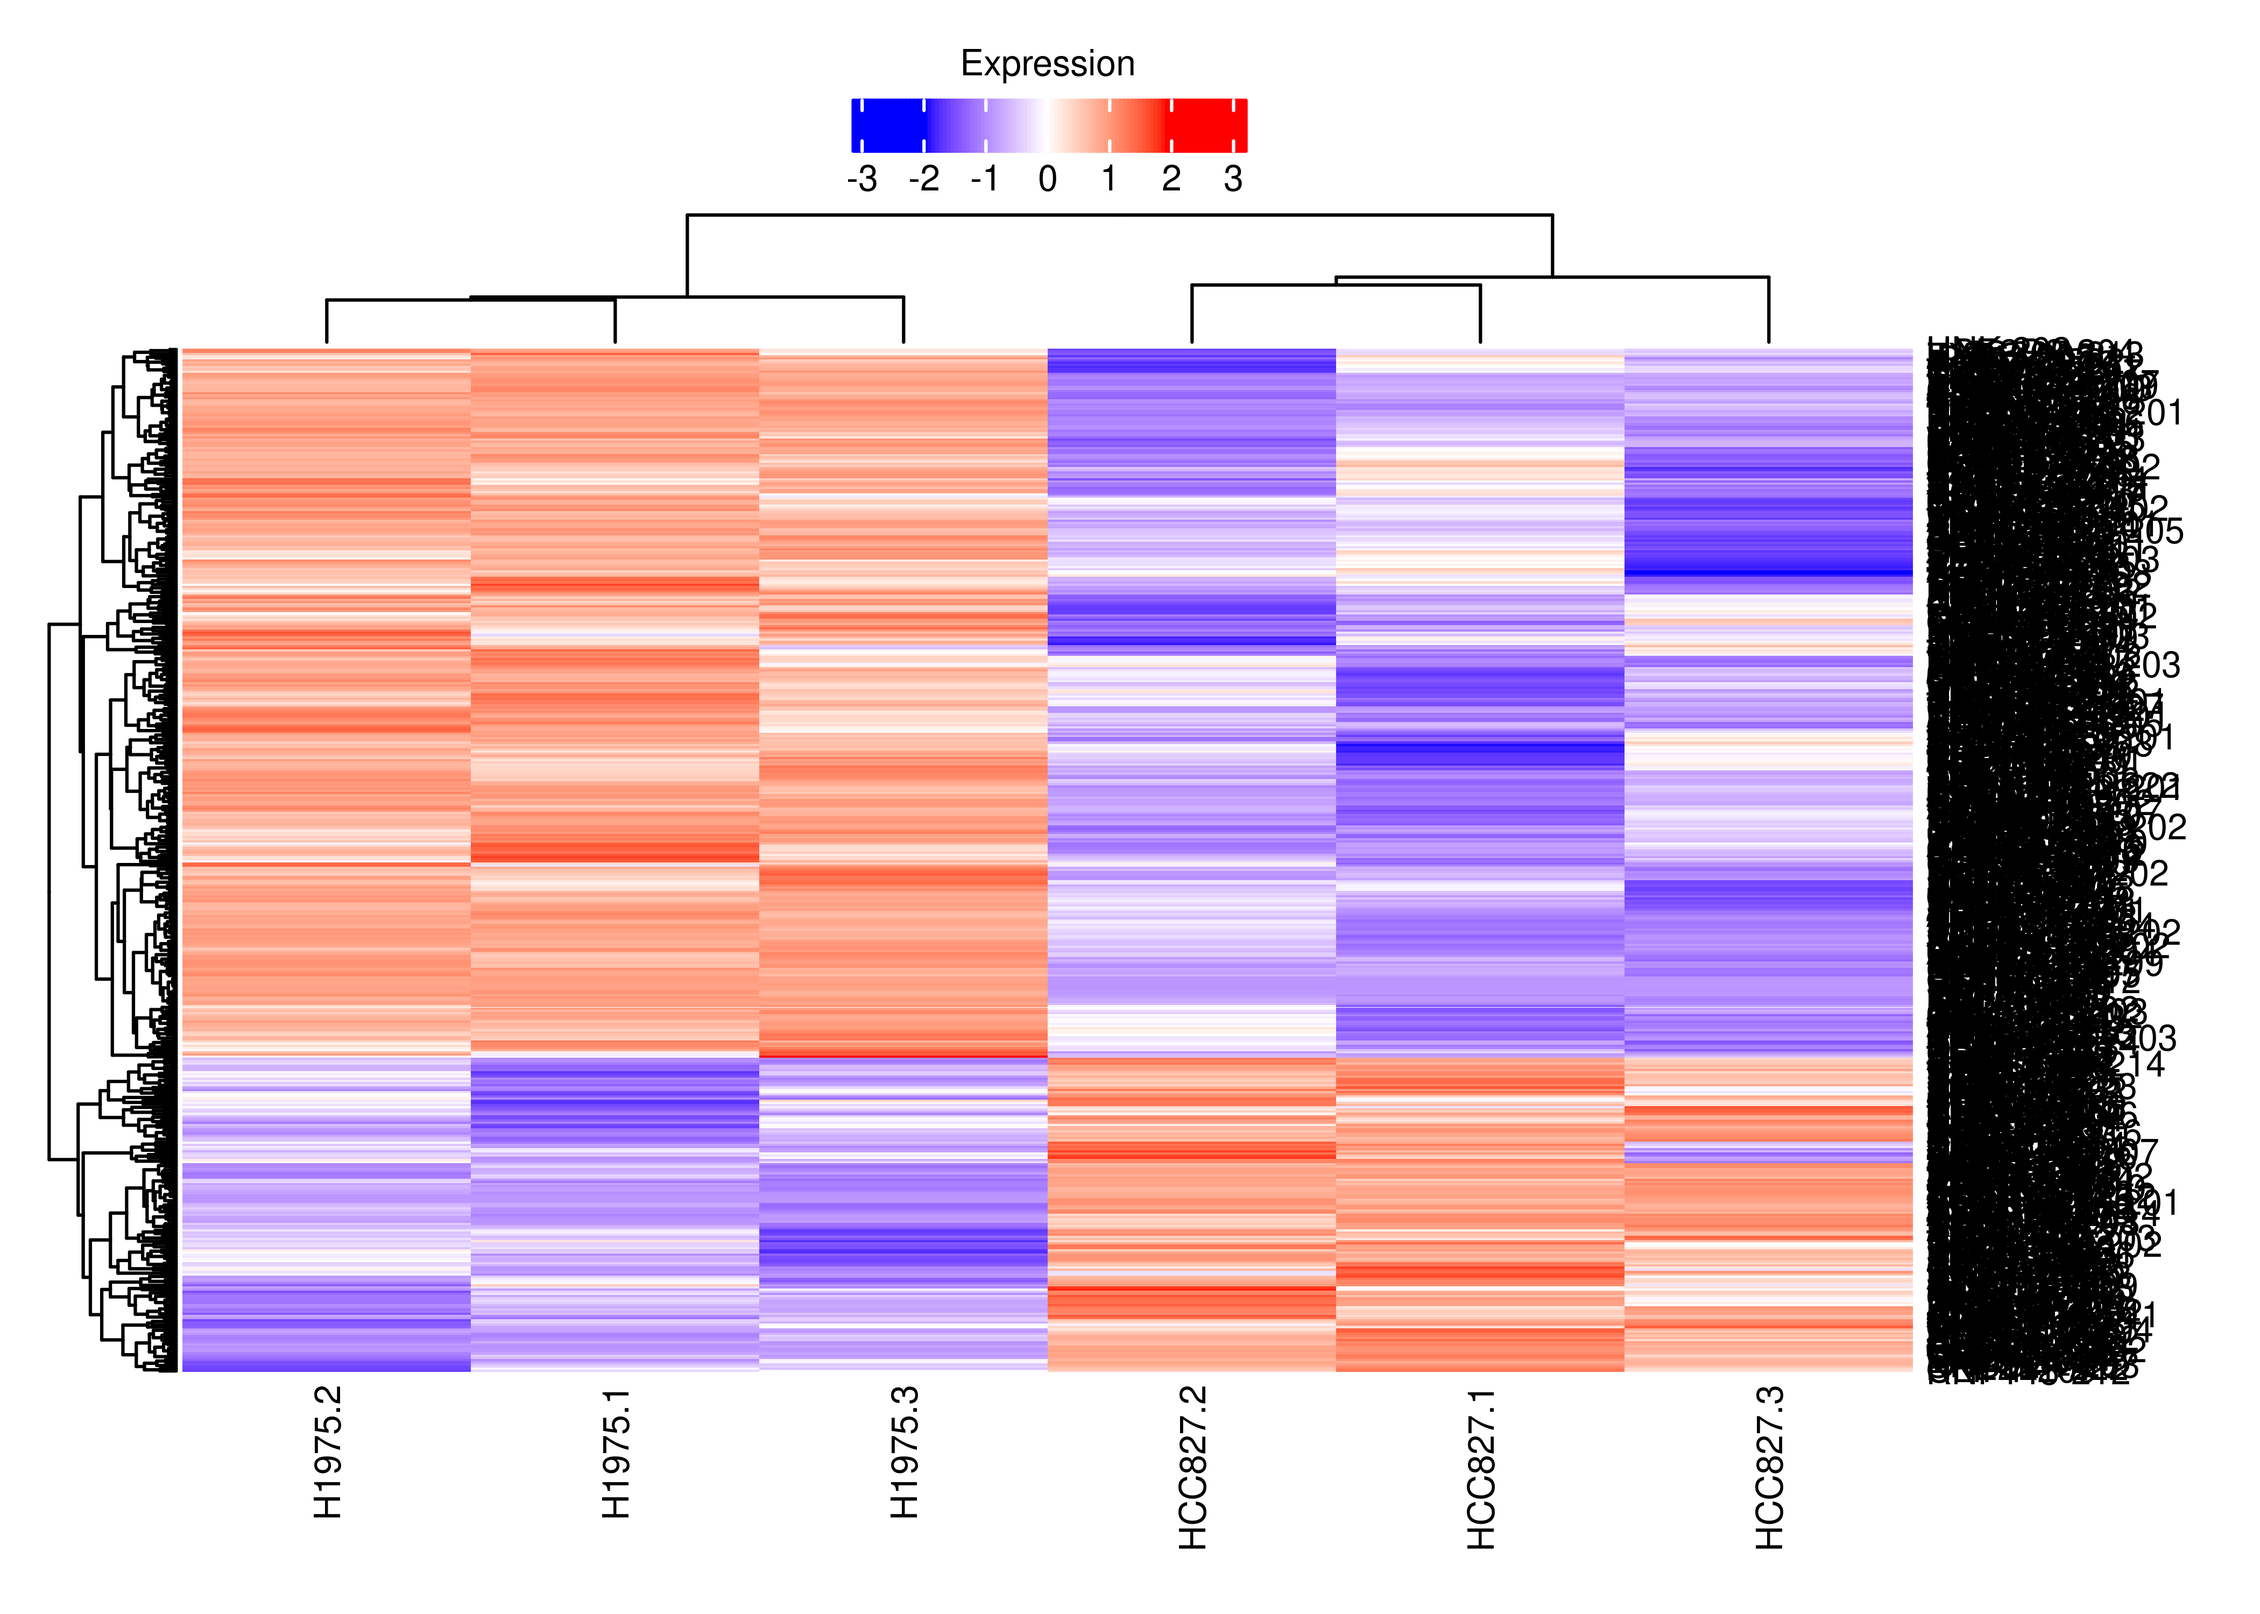
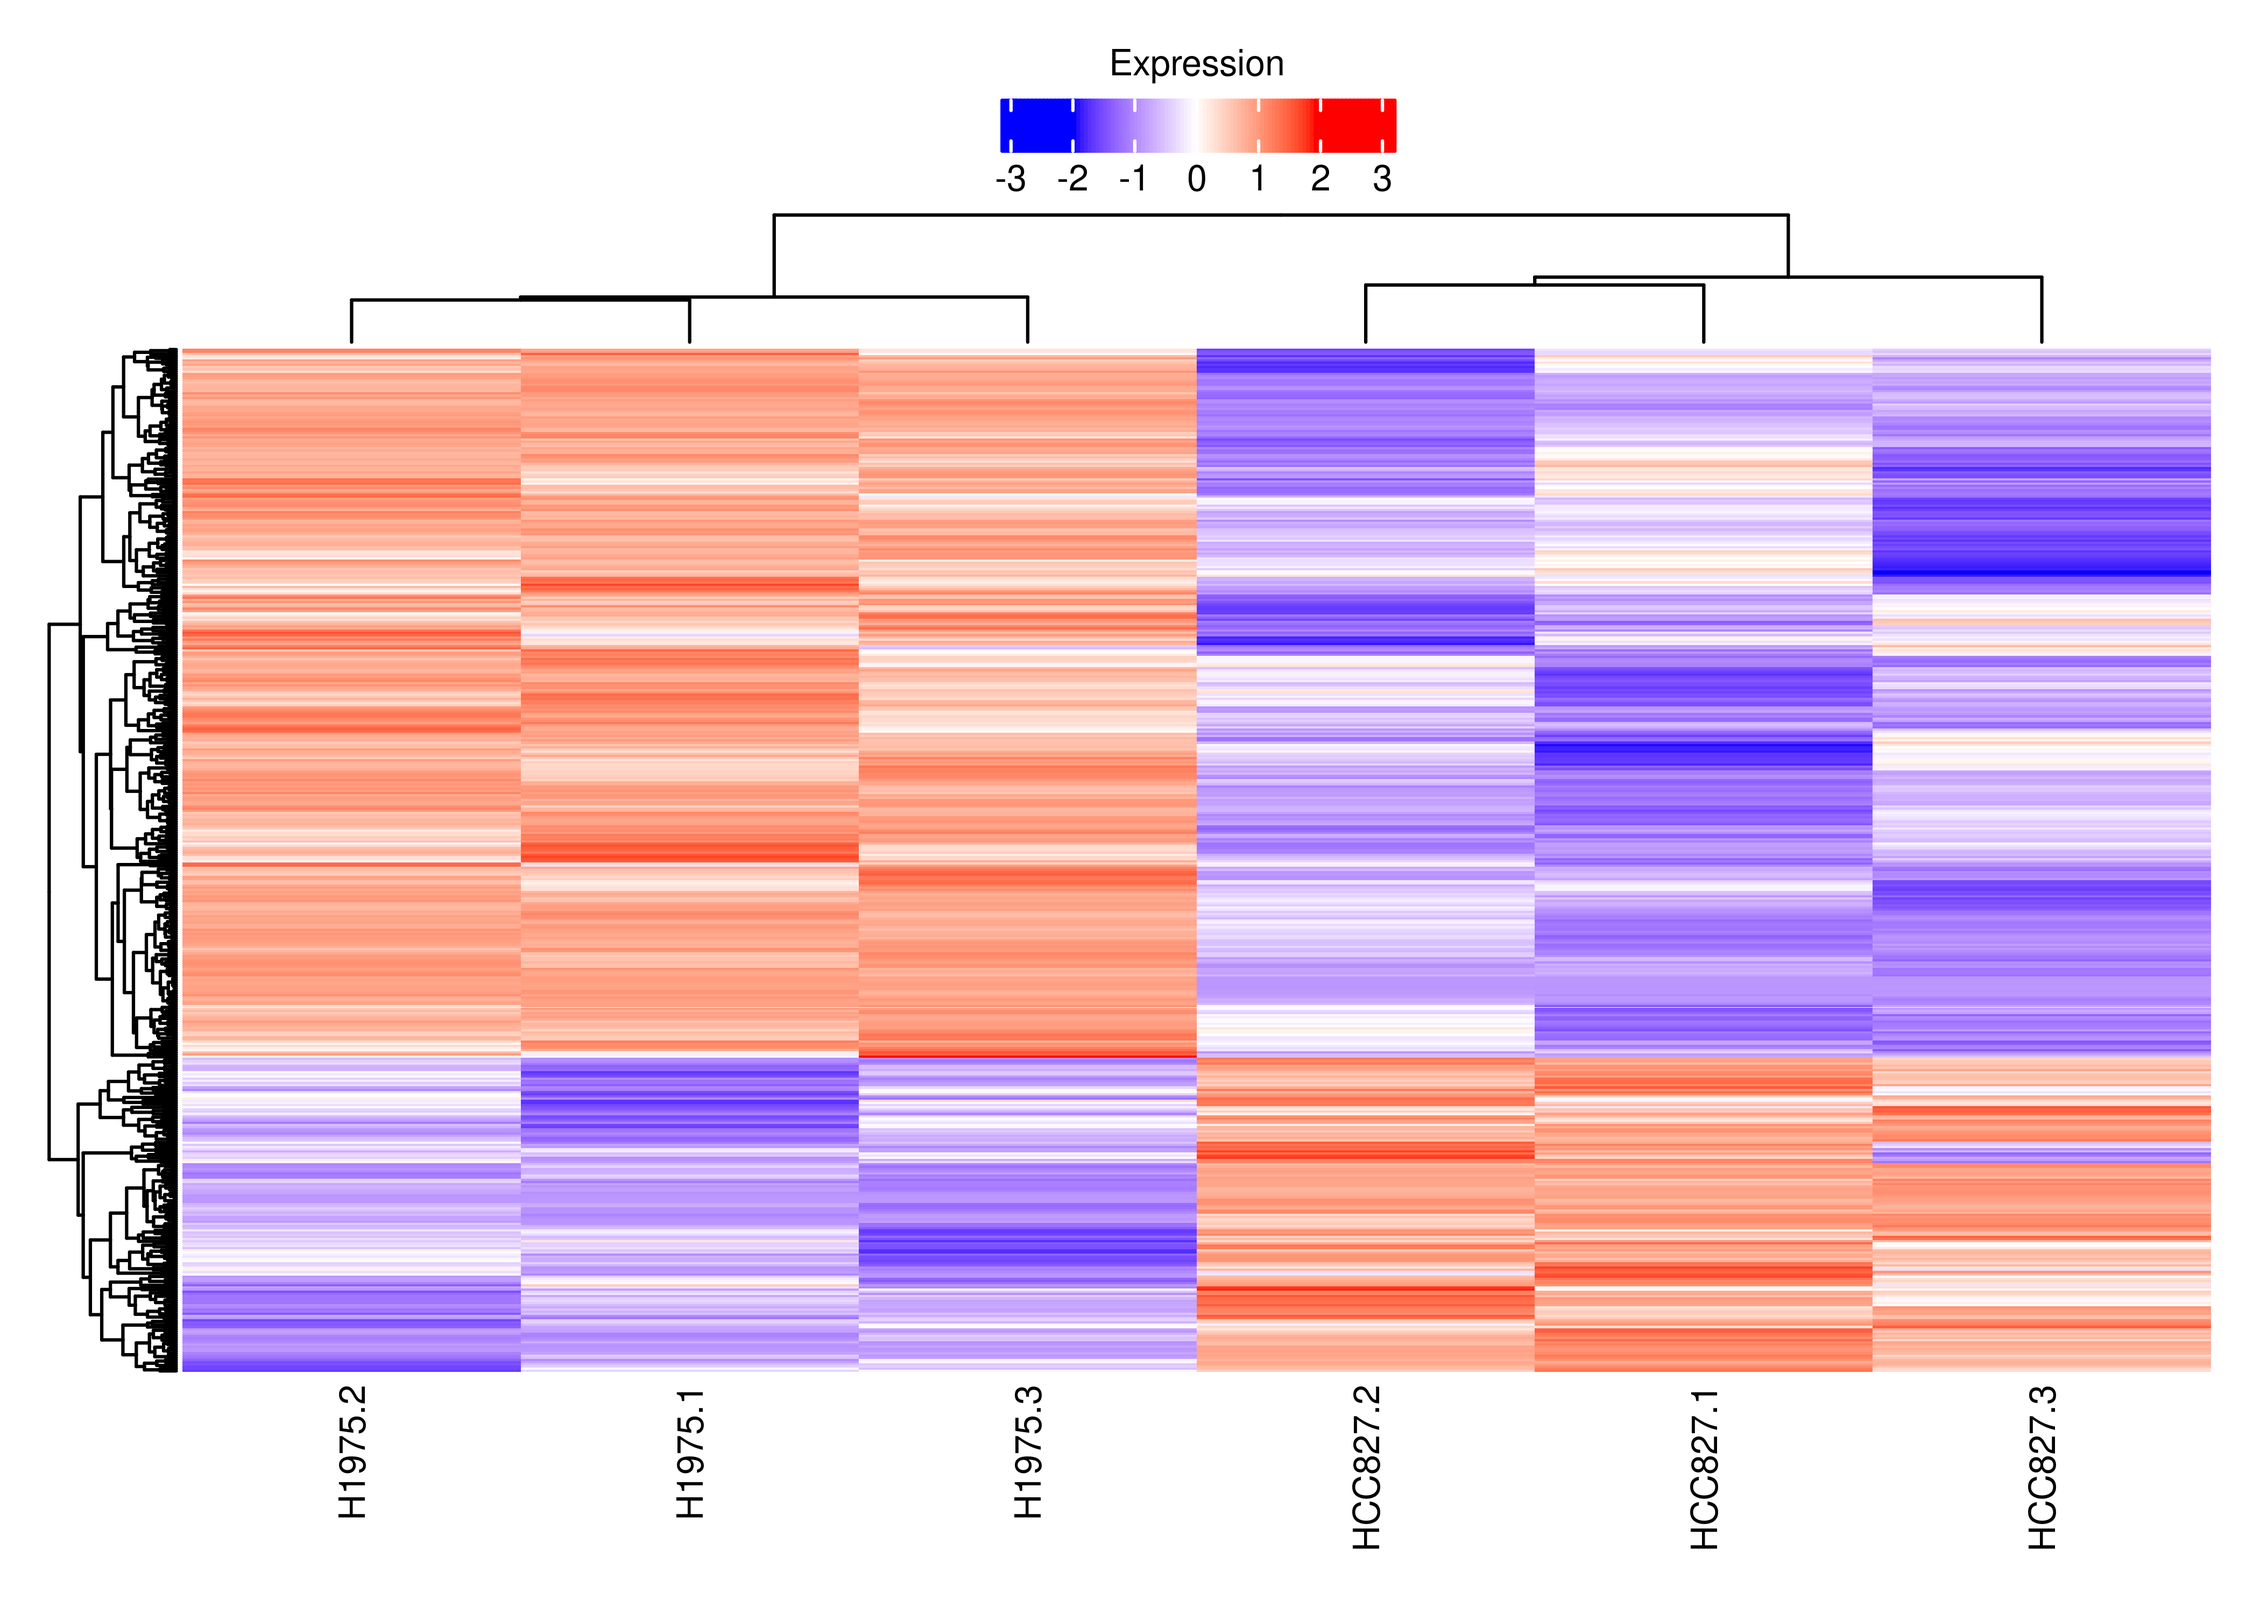
Build site.

diff --git a/docs/casestudy.html b/docs/casestudy.html
@@ -541,15 +541,15 @@ project makes it easier to run your code on other machines.</p>
 <div class="panel panel-default">
 <div class="panel-heading">
 <p class="panel-title">
-<a data-toggle="collapse" data-parent="#workflowr-checks" href="#strongRepositoryversionstrongahrefhttpsgithubcomplbaldoniTranscriptDEwftree86dcc057c2f20f1efb2c0bfa8a064eeb4d657a40targetblank86dcc05a">
+<a data-toggle="collapse" data-parent="#workflowr-checks" href="#strongRepositoryversionstrongahrefhttpsgithubcomplbaldoniTranscriptDEwftreed52be0a99d4feb53343838e488bf39e36869f4cftargetblankd52be0aa">
 <span class="glyphicon glyphicon-ok text-success"
 aria-hidden="true"></span> <strong>Repository version:</strong>
-<a href="https://github.com/plbaldoni/TranscriptDE-wf/tree/86dcc057c2f20f1efb2c0bfa8a064eeb4d657a40" target="_blank">86dcc05</a>
+<a href="https://github.com/plbaldoni/TranscriptDE-wf/tree/d52be0a99d4feb53343838e488bf39e36869f4cf" target="_blank">d52be0a</a>
 </a>
 </p>
 </div>
 <div
[2 lines of base64/hex data omitted]
 class="panel-collapse collapse">
 <div class="panel-body">
 <p>
@@ -559,7 +559,7 @@ reproducibility.
 </p>
 <p>
 The results in this page were generated with repository version
-<a href="https://github.com/plbaldoni/TranscriptDE-wf/tree/86dcc057c2f20f1efb2c0bfa8a064eeb4d657a40" target="_blank">86dcc05</a>.
+<a href="https://github.com/plbaldoni/TranscriptDE-wf/tree/d52be0a99d4feb53343838e488bf39e36869f4cf" target="_blank">d52be0a</a>.
 See the <em>Past versions</em> tab to see a history of the changes made
 to the R Markdown and HTML files.
 </p>
@@ -684,6 +684,40 @@ Message
 </tr>
 </thead>
 <tbody>
+<tr>
+<td>
+Rmd
+</td>
+<td>
+<a href="https://github.com/plbaldoni/TranscriptDE-wf/blob/d52be0a99d4feb53343838e488bf39e36869f4cf/analysis/casestudy.Rmd" target="_blank">d52be0a</a>
+</td>
+<td>
+Pedro Baldoni
+</td>
+<td>
+2023-02-25
+</td>
+<td>
+Removing row names
+</td>
+</tr>
+<tr>
+<td>
+html
+</td>
+<td>
+<a href="https://rawcdn.githack.com/plbaldoni/TranscriptDE-wf/280d68a0139304b4aefb0bec01c03fbd77e3b251/docs/casestudy.html" target="_blank">280d68a</a>
+</td>
+<td>
+Pedro Baldoni
+</td>
+<td>
+2023-02-25
+</td>
+<td>
+Build site.
+</td>
+</tr>
 <tr>
 <td>
 Rmd
@@ -1943,7 +1977,7 @@ cpm.scaled.cancer &lt;- cpm.scaled[rownames(df.tx.gene.cancer),]
 rownames(cpm.scaled.cancer) &lt;- 
   dte.short.paired.edger.scaled.filtr$genes$TranscriptSymbol[match(rownames(cpm.scaled.cancer),rownames(dte.short.paired.edger.scaled.filtr))]
 
-foo.heat &lt;- function(x,cluster_rows = TRUE, fontsize = 8){
+foo.heat &lt;- function(x,cluster_rows = TRUE, fontsize = 8,...){
   Heatmap(matrix = x,
           heatmap_legend_param = list(title = &#39;Expression&#39;,
                                       title_position = &#39;topcenter&#39;,
@@ -1955,7 +1989,7 @@ foo.heat &lt;- function(x,cluster_rows = TRUE, fontsize = 8){
           cluster_rows = cluster_rows,
           row_names_gp = gpar(fontsize = fontsize),
           column_names_gp = gpar(fontsize = fontsize),
-          col = c(&quot;blue&quot;, &quot;white&quot;, &quot;red&quot;)) %&gt;%
+          col = c(&quot;blue&quot;, &quot;white&quot;, &quot;red&quot;),...) %&gt;%
     draw(heatmap_legend_side = &quot;top&quot;)
 }
 
@@ -2113,15 +2147,89 @@ cpm.scaled.s &lt;- cpm.scaled[rownames(df.tx.gene.s),]
 rownames(cpm.scaled.s) &lt;- dte.short.paired.edger.scaled.filtr$genes$TranscriptSymbol[match(rownames(cpm.scaled.s),rownames(dte.short.paired.edger.scaled.filtr))]
 
 plot.heat.s &lt;-
-  wrap_elements(grid.grabExpr(draw(foo.heat(cpm.scaled.s))))
+  wrap_elements(grid.grabExpr(draw(foo.heat(cpm.scaled.s,show_row_names = FALSE))))
 
 plot.heat.s.cancer &lt;-
   wrap_elements(grid.grabExpr(draw(foo.heat(cpm.scaled.s.cancer))))
 
 plot.heat.s</code></pre>
 <p><img src="figure/casestudy.Rmd/casestudy_res_txgene_switch-1.png" width="2100" style="display: block; margin: auto;" /></p>
+<p>
+<button type="button" class="btn btn-default btn-xs btn-workflowr btn-workflowr-fig" data-toggle="collapse" data-target="#fig-casestudy_res_txgene_switch-1">
+Past versions of casestudy_res_txgene_switch-1.png
+</button>
+</p>
+<div id="fig-casestudy_res_txgene_switch-1" class="collapse">
+<div class="table-responsive">
+<table class="table table-condensed table-hover">
+<thead>
+<tr>
+<th>
+Version
+</th>
+<th>
+Author
+</th>
+<th>
+Date
+</th>
+</tr>
+</thead>
+<tbody>
+<tr>
+<td>
+<a href="https://github.com/plbaldoni/TranscriptDE-wf/blob/280d68a0139304b4aefb0bec01c03fbd77e3b251/docs/figure/casestudy.Rmd/casestudy_res_txgene_switch-1.png" target="_blank">280d68a</a>
+</td>
+<td>
+Pedro Baldoni
+</td>
+<td>
+2023-02-25
+</td>
+</tr>
+</tbody>
+</table>
+</div>
+</div>
 <pre class="r"><code>plot.heat.s.cancer</code></pre>
 <p><img src="figure/casestudy.Rmd/casestudy_res_txgene_switch-2.png" width="2100" style="display: block; margin: auto;" /></p>
+<p>
+<button type="button" class="btn btn-default btn-xs btn-workflowr btn-workflowr-fig" data-toggle="collapse" data-target="#fig-casestudy_res_txgene_switch-2">
+Past versions of casestudy_res_txgene_switch-2.png
+</button>
+</p>
+<div id="fig-casestudy_res_txgene_switch-2" class="collapse">
+<div class="table-responsive">
+<table class="table table-condensed table-hover">
+<thead>
+<tr>
+<th>
+Version
+</th>
+<th>
+Author
+</th>
+<th>
+Date
+</th>
+</tr>
+</thead>
+<tbody>
+<tr>
+<td>
+<a href="https://github.com/plbaldoni/TranscriptDE-wf/blob/280d68a0139304b4aefb0bec01c03fbd77e3b251/docs/figure/casestudy.Rmd/casestudy_res_txgene_switch-2.png" target="_blank">280d68a</a>
+</td>
+<td>
+Pedro Baldoni
+</td>
+<td>
+2023-02-25
+</td>
+</tr>
+</tbody>
+</table>
+</div>
+</div>
 <p>We can also compare the distribution of the overdispersion estimates
 between gene- and transcript-level analyses.</p>
 <pre class="r"><code>df.output.gene &lt;-
